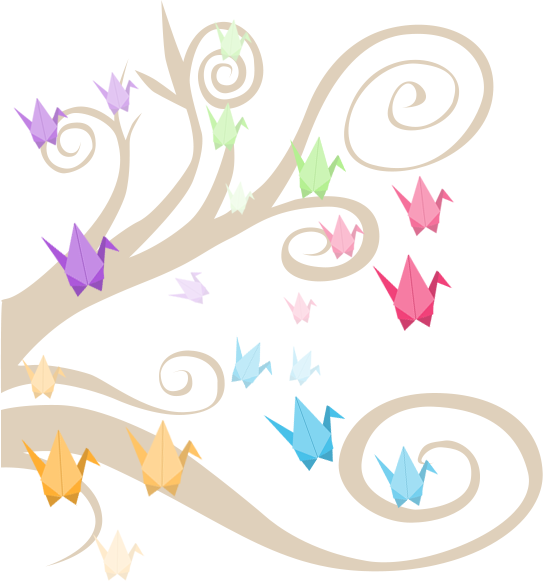
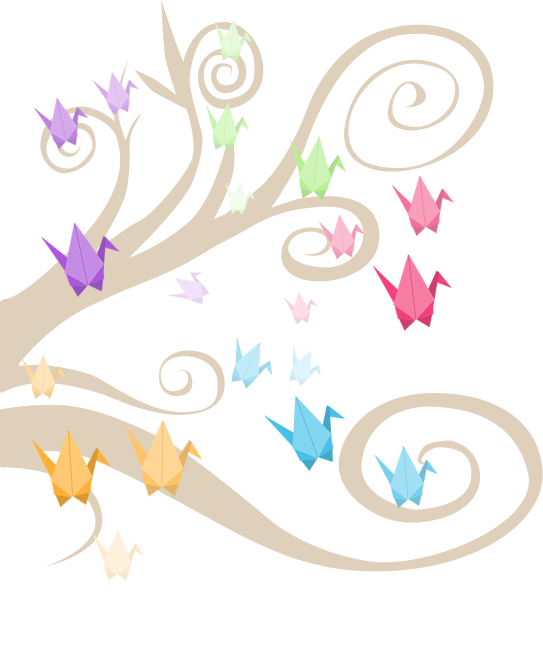
Add header and stylized h2

diff --git a/index.html b/index.html
@@ -1,4 +1,3 @@
-
 <!DOCTYPE html>
 <!--[if lt IE 7]>      <html class="no-js lt-ie9 lt-ie8 lt-ie7"> <![endif]-->
 <!--[if IE 7]>         <html class="no-js lt-ie9 lt-ie8"> <![endif]-->
@@ -15,10 +14,12 @@
         <script>window.jQuery || document.write('<script src="js/vendor/jquery-1.10.2.min.js"><\/script>')</script>
         <script src="js/main.js"></script>
 
+
         <!-- Place favicon.ico and apple-touch-icon.png in the root directory -->
 
         <link rel="stylesheet" href="css/reset.css">
         <link rel="stylesheet" href="css/style.css">
+        <link href='http://fonts.googleapis.com/css?family=Oswald:400,300,700' rel='stylesheet' type='text/css'>
     </head>
     <body>
         <!--[if lt IE 7]>
@@ -27,30 +28,47 @@
 
         <!-- Add your site or application content here -->
         <section id="home">
-            <nav>
-                <ul>
-                    <li><a href="#" id="about">About</a></li>
-                    <li><a href="#" id="portfolio">Portfolio</a></li>
-                    <li><a href="#" id="music-and-theater">Music and Theater</a></li>
-                    <li><a href="#" id="blog">Blog</a></li>
-                    <li><a href="#" id="contact">Contact</a></li>
-                </ul>   
-            </nav>
+            <div class="wrapper">
+                <nav class="tree">
+                    <ul>
+                        <li id="portfolio"></li>
+                        <li id="music-and-theater"></li>
+                        <li id="blog"></li>
+                        <li id="about"></li>
+                        <li id="contact"></li>
+                    </ul>
+                </nav>
+            </div>  
+        </section>
+
+        <section id="portfolio">
+            <div class="wrapper">
+                <h2>PORTFOLIO</h2>
+            </div>
+        </section>
+    
+        <section id="music-and-theater">
+            <div class="wrapper">
+                GRID MÚSICA E TEATRO
+            </div>
         </section>
 
         <section id="about">
             <div class="wrapper">
-                <article>
-                    <p>Lorem ipsum dolor sit amet, consectetuer adipiscing elit, sed diam nonummy nibh euismod tincidunt ut laoreet dolore magna aliquam erat volutpat. Ut wisi enim ad minim veniam, quis nostrud exerci tation ullamcorper suscipit lobortis nisl ut aliquip ex ea commodo consequat. Duis autem vel eum iriure dolor in hendrerit in vulputate velit esse molestie consequat, vel illum dolore eu feugiat nulla facilisis at vero eros et accumsan et iusto odio dignissim qui blandit praesent luptatum zzril delenit augue duis dolore te feugait nulla facilisi. Nam liber tempor cum soluta nobis eleifend option congue nihil imperdiet doming id quod mazim placerat facer possim assum. Typi non habent claritatem insitam; est usus legentis in iis qui facit eorum claritatem. Investigationes demonstraverunt lectores legere me lius quod ii legunt saepius.
-                    
-                    Lorem ipsum dolor sit amet, consectetuer adipiscing elit, sed diam nonummy nibh euismod tincidunt ut laoreet dolore magna aliquam erat volutpat.</p>
-
-                    <figure>
-                        <img src="img/img-about.jpg">
-                    </figure>
-                </article>
+                SOBRE ELA
             </div>
         </section>
-    
+
+        <section id="contact">
+            <div class="wrapper">
+                FORM CONTATO
+            </div>
+        </section>
+
+        <section id="footer">
+            <div class="wrapper">
+                FOOTER
+            </div>
+        </section>
     </body>
 </html>

diff --git a/css/style.css b/css/style.css
@@ -1,18 +1,22 @@
 body{ background-color: #fffcf4; }
-section { position: relative; }
+section { position: relative; border: solid 1px black; }
 
-.wrapper{ margin: 0 auto; width: 770px; }
+.wrapper{ margin: 0 auto; width: 960px; border: }
 
-nav ul li { }
-nav ul li a{ text-indent: -9999px; display: block; }
-nav ul li #about{ background: url("../img/menu-about.png") no-repeat; height: 102px; width: 79px; }
-nav ul li #portfolio{ background: url("../img/menu-portfolio.png") no-repeat; height: 94px; width: 94px; }
-nav ul li #music-and-theater{ background: url("../img/menu-musicandtheater.png") no-repeat; height: 87px; width: 102px; }
-nav ul li #blog{ background: url("../img/menu-blog.png") no-repeat; height: 104px; width: 80px; }
-nav ul li #contact{ background: url("../img/menu-contact.png") no-repeat; height: 78px; width: 81px; }
+#home{ }
+#portfolio {  }
+#music-and-theater{ }
+#about{ }
+#contact{  }
 
-#home{ background: url("../img/bg-home.png") no-repeat; }
-#about{ background: url("../img/bg-about.png") no-repeat bottom right; }
+nav.tree{ background: url("../img/bg-home.png") no-repeat; width: 543px; height: 666px; position: relative; }
+nav.tree ul li{ background: url("../img/sprite-menus.png"); position: absolute; height: 104px}
+nav.tree ul li#portfolio{ width: 94px; height: 94px; top: 325px; left: 338px; }
+nav.tree ul li#music-and-theater{ background-position: -115px 0; width: 102px; height: 87px; top: 152px; left: 74px; }
+nav.tree ul li#blog { background-position: -257px 0; width: 90px; height: 104px; top: 325px; left: 80px;}
+nav.tree ul li#about { background-position: -370px 0; width: 79px; height: 101px; top: 201px; left: 482px; }
+nav.tree ul li#contact { background-position: -479px 0; width: 79px; height: 78px; top: 30px; left: 256px; }
 
-#about article{ margin-top: 200px; }
-#about article p{ float: left; margin-right: 135px; width: 300px; }
+h2{ font-family: 'Oswald', sans-serif; font-size: 50px; text-align: center; font-weight: 700; margin-top: 40px; }
+
+#portfolio h2{ color: #44a7c9; text-shadow: 2px 2px 0px #1790b3; }
